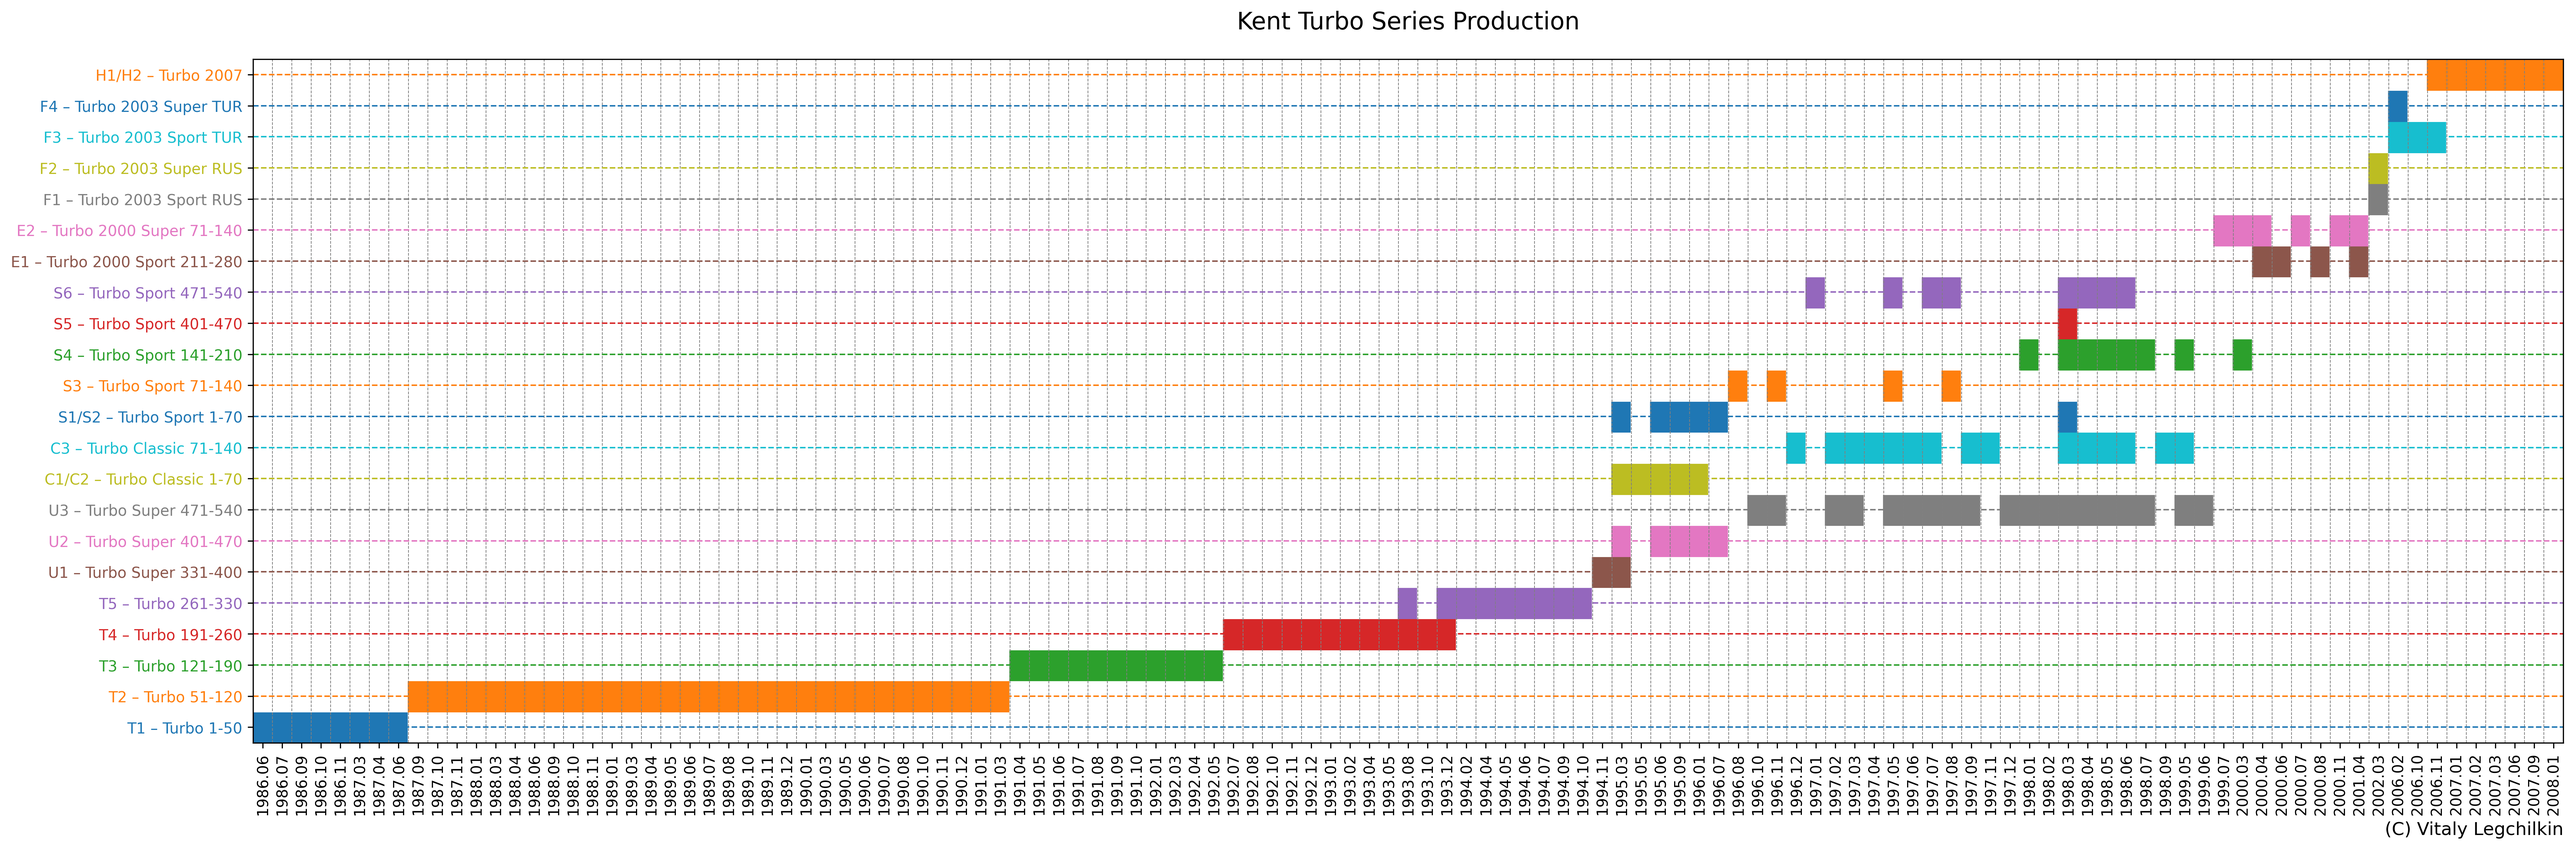
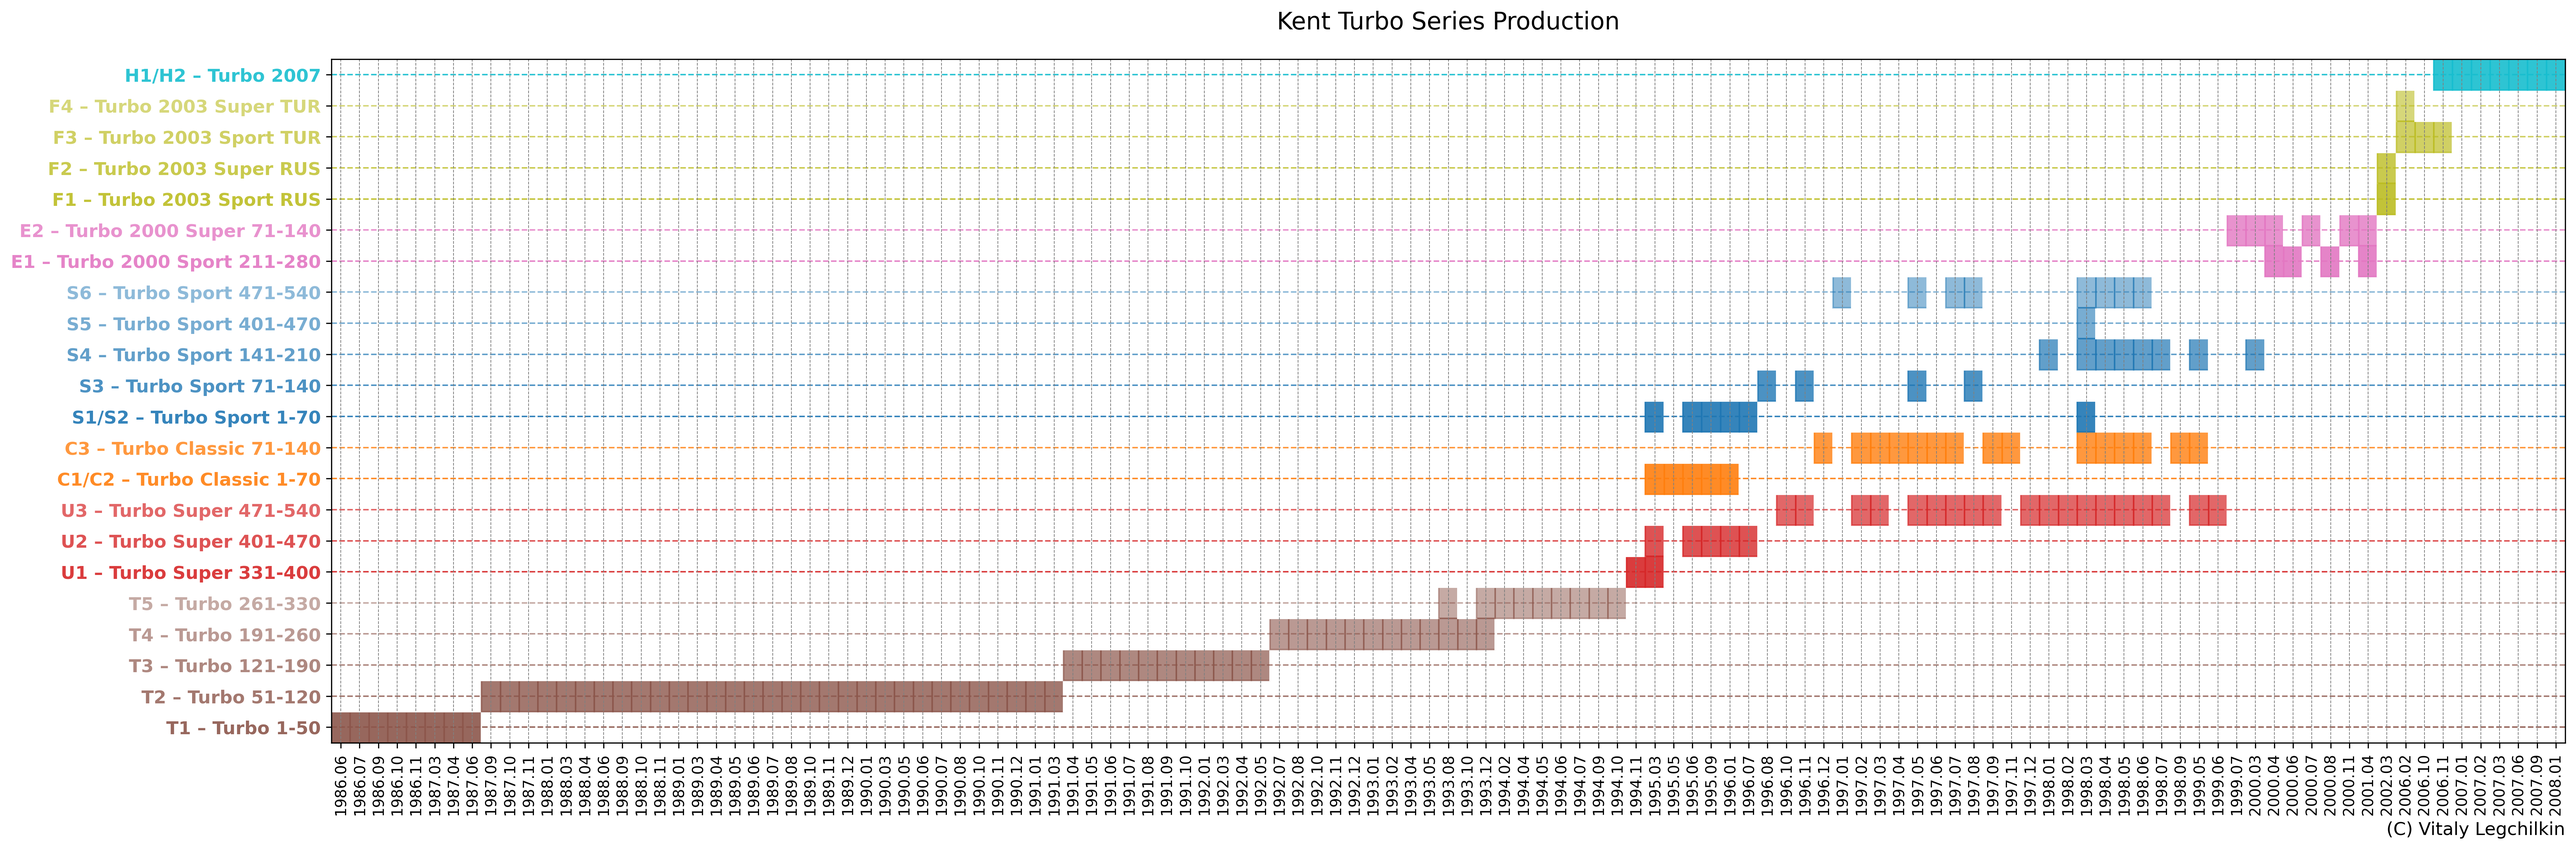
play with colors

Changed region(s): [[0.0, 0.0617, 0.9996, 0.9869], [0.4686, 0.0, 0.6247, 0.0308], [0.7497, 0.0617, 0.7809, 0.0925]]

diff --git a/script/production.py b/script/production.py
@@ -1,21 +1,57 @@
-import datetime
 import re
+from numbers import Number
 from pathlib import Path
-from typing import List, Any
+from typing import List
 
 import matplotlib.pyplot as plt
-from matplotlib import colors as mcolors
-import pandas as pd
 import numpy as np
-from matplotlib.axes import Axes
-from matplotlib.axis import Axis
-from matplotlib.figure import Figure
+import pandas as pd
+from matplotlib import colors as mcolors
+import itertools as it
 
 from script import OuterRelease
 
+# COLORS = {
+#     "black": "black",
+#     "2000": "yellow",
+#     "2003": "green",
+#     "2007": "cyan",
+#     "classic": "orange",
+#     "sport": "blue",
+#     "super": "red"
+# }
+COLORS = {
+    "black": "tab:brown",
+    "super": "tab:red",
+    "classic": "tab:orange",
+    "sport": "tab:blue",
+    "2000": "tab:pink",
+    "2003": "tab:olive",
+    "2007": "tab:cyan",
+}
+
+SERIES_RE = re.compile(r"^\[(.*)\]\((.*)\)$")
+
+
+class Product(Number):
+    def __hash__(self):
+        return self.id.__hash__()
+
+    def __init__(self, index: int, description: str, releases: List[OuterRelease]):
+        self.id = index
+        self.releases = releases
+        self.title, self.path = SERIES_RE.match(description).groups()
+        self.epoch = self.path.split("/")[0]
+        self.color = (COLORS[self.epoch], 1)
+
+    def __eq__(self, __value: 'Product'):
+        return self.id == __value.id
+
+    def __str__(self):
+        return self.path
+
 
 def draw(releases: dict[str, List[OuterRelease]], output_file):
-    name_re = re.compile(r"^\[(.*)\]\(.*\)$")
     dates = set()
     for outers in releases.values():
         for release in outers:
@@ -23,56 +59,50 @@ def draw(releases: dict[str, List[OuterRelease]], output_file):
             dates.add(prod)
 
     moments = sorted(dates)
-    products = list(releases.keys())
+    products = [Product(idx, description, releases) for idx, (description, releases) in enumerate(releases.items())]
+    epoch_groups = [(k, list(g)) for k, g in it.groupby(products, lambda p: p.epoch)]
+    for epoch, epoch_products in epoch_groups:
+        x = len(epoch_products)
+        _start = 0.9
+        for i in range(x):
+            _transparency = _start - i * 0.1
+            epoch_products[i].color = (COLORS[epoch], _transparency)
 
     df = pd.DataFrame(0, index=products, columns=moments)
-    for title, rs in releases.items():
-        months_produced = list({f"{r.year}.{r.month}" for r in rs})
-        df.loc[title, months_produced] = 1
-
-    colors = list(mcolors.TABLEAU_COLORS.values())
+    for product in products:
+        months_produced = list({f"{r.year}.{r.month}" for r in product.releases})
+        df.loc[product, months_produced] = 1
 
     fig, ax = plt.subplots(figsize=(24, 8))  # Adjust figure size for better fit
 
     for i, product in enumerate(df.index):
         for j, month in enumerate(df.columns):
-            color = colors[i % len(colors)] if df.iloc[i, j] == 1 else 'white'
+            color = product.color if df.iloc[i, j] == 1 else 'white'
             ax.add_patch(plt.Rectangle((j, i), 1, 1, color=color))
 
     # Adjust the tick positions and labels
     ax.set_xticks(np.arange(len(moments)) + 0.5)  # Center labels
     ax.set_xticklabels(moments, rotation=90, ha="center", fontsize=10)
+
     ax.set_yticks(np.arange(len(products)) + 0.5)  # Center labels
-    ax.set_yticklabels(products, fontsize=10)
-    ax.set_yticklabels([name_re.match(product).groups()[0] for product in products], fontsize=10)
-    [t.set_color(colors[idx % len(colors)]) for idx, t in enumerate(ax.yaxis.get_ticklabels())]
+    ax.set_yticklabels([product.title for product in products], fontsize=12, weight='bold')
+    [t.set_color(products[idx].color) for idx, t in enumerate(ax.yaxis.get_ticklabels())]
 
     # Set labels, title
     ax.set_xlabel("(C) Vitaly Legchilkin", fontsize=12, loc="right")
     ax.set_title("Kent Turbo Series Production", fontsize=16, pad=20)
 
-    # Invert y-axis, ensure tight layout, and set aspect ratio
-    # ax.invert_yaxis()
-    ax.set_xlim(0, len(moments))  # Set limits to align edges
+    # Set limits to align edges
+    ax.set_xlim(0, len(moments))
     ax.set_ylim(0, len(products))
 
-    # Manually add horizontal grid lines for each product
     for i, product in enumerate(products):
-        y_center = i + 0.5  # Center the grid line
-        ax.axhline(y=y_center, color=colors[i % len(colors)], linestyle="--", linewidth=1)
+        y_center = i + 0.5
+        ax.axhline(y=y_center, color=product.color, linestyle="--", linewidth=1)
 
-    # Add minor gridlines for overall clarity
-    ax.set_xticks(np.arange(0, len(moments)), minor=True)
-    ax.grid(which="minor", color="gray", linestyle="--", linewidth=0.5)
-    ax.tick_params(which="minor", bottom=False, left=False)
-
-    # Add gridlines for clarity
-    # ax.set_xticks(np.arange(0, len(moments)), minor=True)
-    # ax.set_yticks(np.arange(0, len(products)), minor=True)
-    # ax.grid(which="minor", color="gray", linestyle="--", linewidth=0.5)
-    # ax.tick_params(which="minor", bottom=False, left=False)
-    # [t.set_color(colors[idx % len(colors)]) for idx, t in enumerate(ax.yaxis.get_ticklines())]
-
+    for i, _ in enumerate(moments):
+        x_center = i + 0.5
+        ax.axvline(x=x_center, color="gray", linestyle="--", linewidth=0.5)
 
     plt.tight_layout()
     plt.savefig(output_file, dpi=300, bbox_inches='tight')
@@ -83,23 +113,6 @@ def update_production(index_filepath: Path, title_releases: dict[str, list[Outer
     series_offsets = {title: state.find(title) for title in title_releases.keys()}
     sorted_titles = sorted(series_offsets.keys(), key=lambda x: series_offsets[x])
     sorted_releases = {title: title_releases[title] for title in sorted_titles}
-    # res = []
-    # for title in sorted_titles:
-    #     releases = title_releases[title]
-    #     dates = [f"{release.year}.{release.month}" for release in releases]
-    #     first, last = min(dates), max(dates)
-    #     res.append((title, first, last))
-    #
-    # marker = "\n## Producing\n\n"
-    # start_offset = state.index(marker) + len(marker)
-    # try:
-    #     end_offset = state.index("\n## ", start_offset)
-    # except ValueError:
-    #     end_offset = len(state)
-    # print("\\\n".join(res))
+
     png_path = index_filepath.parent / "kent_turbo_producing.png"
     draw(sorted_releases, str(png_path.absolute()))
-
-    # state = state[0:start_offset] + res + state[end_offset:]
-    # with open(index_filepath, "w") as f:
-    #     f.write(state)
